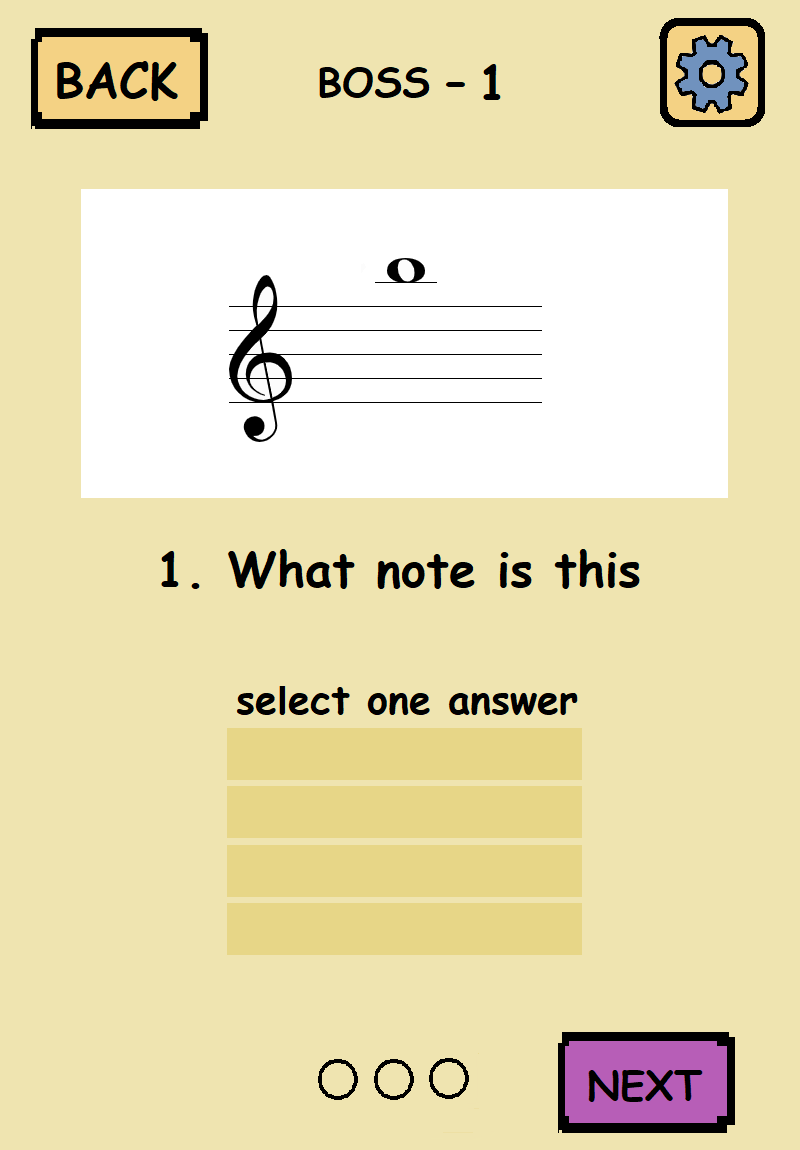
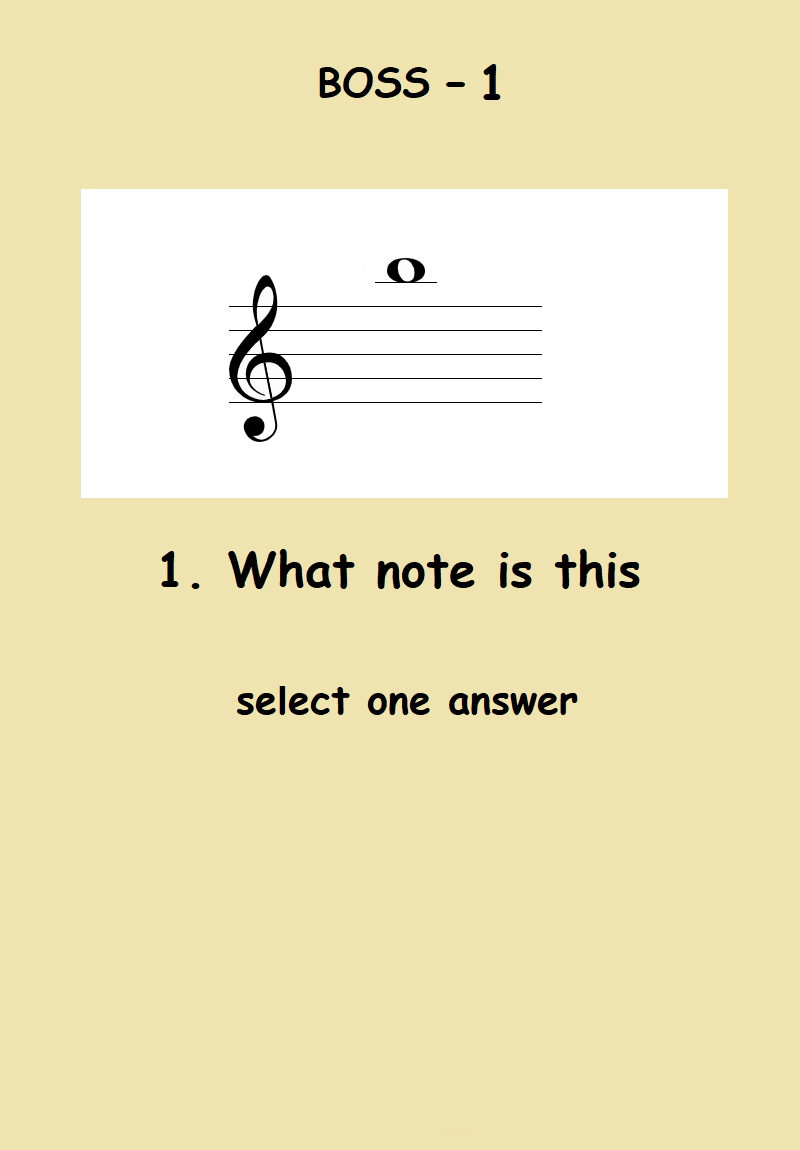
must fixed the multiple choice options on the boss level. Need to handle the next button once boss level is complete

diff --git a/main.js b/main.js
@@ -109,27 +109,29 @@ $(document).ready(function(){
 
 	vals_m1 = [
 		[//lesson 1
-			["A","B","C","D"],//question 1 = vals_m1[0][0][2] == "C"
+			["A","B","C","D"],//q1 = vals_m1[0][0][2] == "C"
 			["A","B","C","D"],
 			["A","B","C","D"]
 		],
 		[//lesson 2
-			["2","4","8","10"],//question 1
+			["2","4","8","10"],//q1
 			["2","4","8","10"],
 			["2 quarter notes","2 half notes","1 whole note","2 whole notes"]
 		],
 		[//lesson 3
-			["1","2","3","4"],// question 2
+			["1","2","3","4"],//q1
 			["1","2","3","4"],
 			["half","one and half","two and half","not allowed"]
 		],
-		[
-			["1","2","3","4"],
+		[//lesson 4
+			["1","2","3","4"],//q1
 			["1","2","3","4"],
 			["whole rest","half rest"]
 		],
-		[
-
+		[//boss level
+			["A","B","C","D"],//q1
+			["4","6","8","10"],
+			["whole rest","half rest"]
 		]
 	];
 
@@ -157,9 +159,8 @@ $(document).ready(function(){
 	for(var i = 0; i < correct_m1.length; i++){
 		answers_m1[i].push([]);
 	}
-
-
 	*/
+
 	//will be overwritten many times
 	var lessonIndex = 0;
 	var questionIndex = 0;
@@ -171,7 +172,7 @@ $(document).ready(function(){
 		for(var i = 0; i < vals_m1[lessonIndex][questionIndex].length; i++){
 			var opt = opts[i];
 			var val = vals_m1[lessonIndex][questionIndex][i];
-			console.log("option: "+opt + " has value: " + val);
+			console.log("option: "+opt+" has value: "+val);
 			injectMCOption(opt, val);
 		}
 	}
@@ -197,6 +198,7 @@ $(document).ready(function(){
 		$(this).css("background-color", "#ffc90e");
 		selectedAnswer = $(this).find("option").attr("value");
 		console.log("Selected:" + selectedAnswer);
+		$("#checkQuestion").show();
 
 		/*
 		console.log($("#answerForm").css('border'));
@@ -209,29 +211,18 @@ $(document).ready(function(){
 
 	$("#checkQuestion").click(function(){
 		if(selectedAnswer == ""){
-			//do nothing right? 
+			//do nothing right? //will never hit here because we are hiding the button
 			console.log("User did not select an answer")
 			//$("#answerForm").css("border", "1px solid red");
 
 		}else{
 			answers_m1[lessonIndex].push(selectedAnswer);//save in the users answer bank
-			console.log("answer:" + correct_m1[lessonIndex][questionIndex]);
 			console.log("selected:" + answers_m1[lessonIndex][questionIndex]);
-
+			console.log("correct with [" +lessonIndex+ "][" +questionIndex+ "] ==" +correct_m1[lessonIndex][questionIndex]);
 			if(answers_m1[lessonIndex][questionIndex] === correct_m1[lessonIndex][questionIndex]){
 				showFeedBack("correct");
 			}else{
 				showFeedBack("wrong")
-			}
-	
-			if(answers_m1[lessonIndex].length == correct_m1[lessonIndex].length){
-				//clear vars and set up for next lesson
-				console.log("finished this lesson (node)");
-				//handle the evaluation of the student, 1 star per correct answer I guess
-				//move back to moduel screen and display a congrats
-				questionIndex = 0;
-				lessonIndex++;
-				$("li.feedbackInd").css('background-color', '');
 			}
 			selectedAnswer = ""; //set this back to nothing
 		}
@@ -241,39 +232,57 @@ $(document).ready(function(){
 		console.log("User got this answer: " + result);
 		$("#"+result+"Pop").show();
 		$("#popup").show();
+
 		$("ul#feedbackIndicators > li.feedbackInd:nth-child("+(questionIndex+1)+")")
 			.css('background-color', (result == "correct") ? 'green' : 'red');
+		
 	}
 
-	//NOTE: current correctPop and wrongPop click do the same thing. Will need to change on 
-	//		"show correct answer" click
-	$("#correctPop").click(function(){
+	function nextQuestion(){
 		questionIndex++;
+		if(answers_m1[lessonIndex].length == correct_m1[lessonIndex].length){
+			console.log("Finished this lesson (node)");
+			questionIndex = 0;
+			lessonIndex++;
+			$("li.feedbackInd").css('background-color', '');
+		}
+
+		//if completed the boss level -> correct_m1.length == 4
+		//bring back to module screen and calculate if they passed the boss, 
+		//if yes, show popup about unlocking new module or whatever. 
+		//if not, show the two module that they got wrong. 
+
 		$(".answerWrapper").css("background-color", "#e7d687");
 		$("#popup").hide();
-		$(this).hide();
+		$(".feedback").hide();
+
+		if(lessonIndex == 4){
+			var srcStr = "pictures/levelBoss/boss_q" + (questionIndex+1) + ".png";
+		}else{
+			var srcStr = "pictures/level" + (lessonIndex+1) + "/level" + (lessonIndex+1) + "_q" + (questionIndex+1) + ".png";
+		}
+		$("#questionImage").attr("src", srcStr);
 		
-		var srcStr = "pictures/level" + (lessonIndex+1) + "/level" + (lessonIndex+1) + "_q" + (questionIndex+1) + ".png";
-		$("#questionImage").attr("src", srcStr);
+		$("#checkQuestion").hide();
 		populateAnswers(lessonIndex, questionIndex);
+	}
+
+	$("#correctPop").click(function(){
+		nextQuestion();
 	});
 
-	$("#wrongPop").click(function(){
-		questionIndex++;
-		$(".answerWrapper").css("background-color", "#e7d687");
-		$("#popup").hide();
-		$(this).hide();
-
-		var srcStr = "pictures/level" + (lessonIndex+1) + "/level" + (lessonIndex+1) + "_q" + (questionIndex+1) + ".png";
-		$("#questionImage").attr("src", srcStr);
-		populateAnswers(lessonIndex, questionIndex);
+	$("#nextQuestion").click(function(){
+		nextQuestion();
+		$("div.popupContainer").css("background-color", "rgba(0, 0, 0, 0.7)");
 	});
 
+	$("#showCorrect").click(function(){
+		$("div.popupContainer").css("background-color", "rgba(0, 0, 0, 0.0)");
+		var correct = correct_m1[lessonIndex][questionIndex];
+		console.log("Correct answer was: " + correct);
 
+		answerIndex = opts.indexOf(correct);
+		$(".answerWrapper:nth-child("+(answerIndex+1)+")").css('background-color', 'green');
+	});
 
-
-	//next button on modal will bring to next page
-	//'see correct answer' will do something
-
-	//if back button is pressed on a question screen, just go back to node screen
 });

diff --git a/index.html b/index.html
@@ -148,7 +148,7 @@
 				<a id="moduleSettingsBtn" class="settingsBtn">
 					<img src="pictures/menu/menu_setting_button.png" alt="">
 				</a>
-				<a id="checkQuestion" class="questionBtn">
+				<a id="checkQuestion" class="questionBtn hide">
 					<img src="pictures/level_objects/next_button.png" alt="">
 				</a>
 			</div>
@@ -235,8 +235,8 @@
 
 			<div id="wrongPop" class="feedback hide">
 				<img src="pictures/level_objects/nice_try.png"/>
-				<a id="showCorrect" class="wrongOption"></a>
-				<a id="nextQuestion" class="wrongOption"></a>
+				<div id="showCorrect" class="wrongOption"></div>
+				<div id="nextQuestion" class="wrongOption"></div>
 			</div>
 		</div>
 		

diff --git a/main.css b/main.css
@@ -313,15 +313,10 @@ ul#moduleList > li:hover{
 	display:block;
 	border: 1px solid red;
 	width:100%;
-	height:40%;
+	position: relative;
+	height: 75px;
+	top: 80px;
 }
-#showCorrect{
-
-}
-#nextQuestion{
-
-}
-
 
 
 /*
